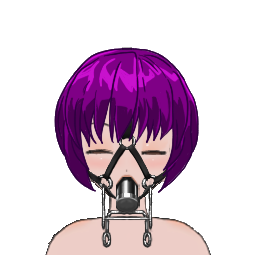
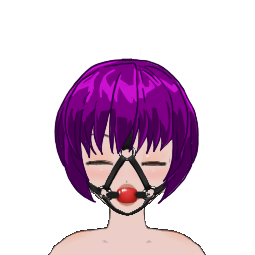
Added Ballgag for BriddleGag

Changed region(s): [[0.1647, 0.1647, 0.8235, 1.0]]

diff --git a/BondageClub/Assets/Female3DCG/Female3DCG.js b/BondageClub/Assets/Female3DCG/Female3DCG.js
@@ -5010,9 +5010,11 @@ var AssetFemale3DCG = [
 					{ Name: "Bit", HasType: false, AllowModuleTypes: ["g0"], CopyLayerColor: "BaseMetal" },
 					{ Name: "BitLarge", HasType: false, AllowModuleTypes: ["g2"] },
 					{ Name: "BitDepressor", HasType: false, AllowModuleTypes: ["g3"], CopyLayerColor: "BaseMetal" },
-					{ Name: "DildoLips", HasType: false, AllowModuleTypes: ["g4"], InheritColor: "Mouth", AllowColorize: false },
-					{ Name: "Dildo", HasType: false, AllowModuleTypes: ["g4"], CopyLayerColor: "BitLarge" },
-					{ Name: "DildoMetal", HasType: false, AllowModuleTypes: ["g4"], CopyLayerColor: "BaseMetal", Priority: 42 },
+					{ Name: "BallLips", HasType: false, AllowModuleTypes: ["g4"], InheritColor: "Mouth", AllowColorize: false },
+					{ Name: "Ballgag", HasType: false, AllowModuleTypes: ["g4"], CopyLayerColor: "BitLarge" },
+					{ Name: "DildoLips", HasType: false, AllowModuleTypes: ["g5"], InheritColor: "Mouth", AllowColorize: false },
+					{ Name: "Dildo", HasType: false, AllowModuleTypes: ["g5"], CopyLayerColor: "BitLarge" },
+					{ Name: "DildoMetal", HasType: false, AllowModuleTypes: ["g5"], CopyLayerColor: "BaseMetal", Priority: 42 },
 
 					//ExtraStraps
 					{ Name: "ExtraMetal", HasType: false, AllowModuleTypes: ["e1", "e2", "b1", "p1", "p2","p3" ,"p4" ,"p5" ,"p6" ,"p7" ,"p8"], CopyLayerColor: "BaseMetal", Priority: 55 },
@@ -5368,13 +5370,16 @@ var AssetFemale3DCG = [
 					{ Name: "Bit", HasType: false, AllowModuleTypes: ["g0"], CopyLayerColor: "BaseMetal" },
 					{ Name: "BitLarge", HasType: false, AllowModuleTypes: ["g2"] },
 					{ Name: "BitDepressor", HasType: false, AllowModuleTypes: ["g3"], CopyLayerColor: "BaseMetal" },
-					{ Name: "DildoLips", HasType: false, AllowModuleTypes: ["g4"], InheritColor: "Mouth", AllowColorize: false },
-					{ Name: "Dildo", HasType: false, AllowModuleTypes: ["g4"], CopyLayerColor: "BitLarge" },
-					{ Name: "DildoMetal", HasType: false, AllowModuleTypes: ["g4"], CopyLayerColor: "BaseMetal" },
+					{ Name: "BallLips", HasType: false, AllowModuleTypes: ["g4"], InheritColor: "Mouth", AllowColorize: false },
+					{ Name: "BallStraps", HasType: false, AllowModuleTypes: ["g4"], CopyLayerColor: "BaseStraps" },
+					{ Name: "Ballgag", HasType: false, AllowModuleTypes: ["g4"], CopyLayerColor: "BitLarge" },
+					{ Name: "DildoLips", HasType: false, AllowModuleTypes: ["g5"], InheritColor: "Mouth", AllowColorize: false },
+					{ Name: "Dildo", HasType: false, AllowModuleTypes: ["g5"], CopyLayerColor: "BitLarge" },
+					{ Name: "DildoMetal", HasType: false, AllowModuleTypes: ["g5"], CopyLayerColor: "BaseMetal" },
 
 					//ExtraStraps
 					{ Name: "ExtraMetal", HasType: false, AllowModuleTypes: ["e1", "e2", "b1", "p1", "p2","p3" ,"p4" ,"p5" ,"p6" ,"p7" ,"p8"], CopyLayerColor: "BaseMetal", Priority: 55 },
-					{ Name: "ExtraStraps", HasType: false, AllowModuleTypes: ["e1", "e2","b1","p1", "p2","p3" ,"p4" ,"p5" ,"p6" ,"p7" ,"p8"], CopyLayerColor: "BaseStraps", Priority: 55  },
+					{ Name: "ExtraStraps", HasType: false, AllowModuleTypes: ["e1", "e2","b1","p1", "p2","p3" ,"p4" ,"p5" ,"p6" ,"p7" ,"p8"], ColorGroup: "BaseStraps", Priority: 55  },
 					{ Name: "Flags", HasType: false, AllowModuleTypes: ["e2"], Priority: 55 },
 					{ Name: "FlagPoles", HasType: false, AllowModuleTypes: ["e2"], AllowColorize: false, Priority: 55 },
 

diff --git a/BondageClub/Assets/Female3DCG/Female3DCGExtended.js b/BondageClub/Assets/Female3DCG/Female3DCGExtended.js
@@ -4790,7 +4790,8 @@ var AssetFemale3DCGExtended = {
 							{ Property: {},}, //g1 - No Gag
 							{ Property: { Effect: ["BlockMouth", "GagMedium"] },}, //g2 - Thick BitGag
 							{ Property: { Effect: ["BlockMouth", "GagHeavy"] },}, //g3 - Tongue Depresor
-							{ Property: { Effect: ["BlockMouth", "GagVeryHeavy"], Hide: ["Mouth"] },}, //g4 - DildoGag
+							{ Property: { Effect: ["BlockMouth", "GagMedium"] },}, //g4 - Ballgag
+							{ Property: { Effect: ["BlockMouth", "GagVeryHeavy"], Hide: ["Mouth"] },}, //g5 - DildoGag
 						],
 					},
 					{
